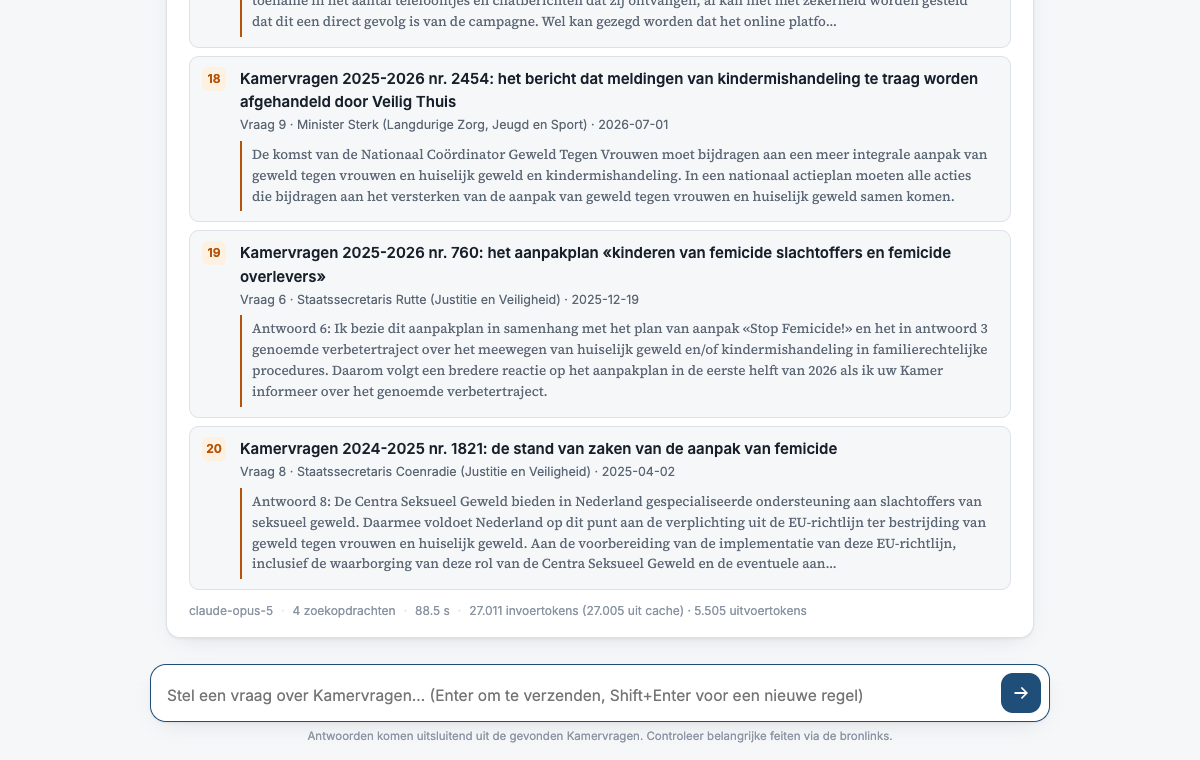
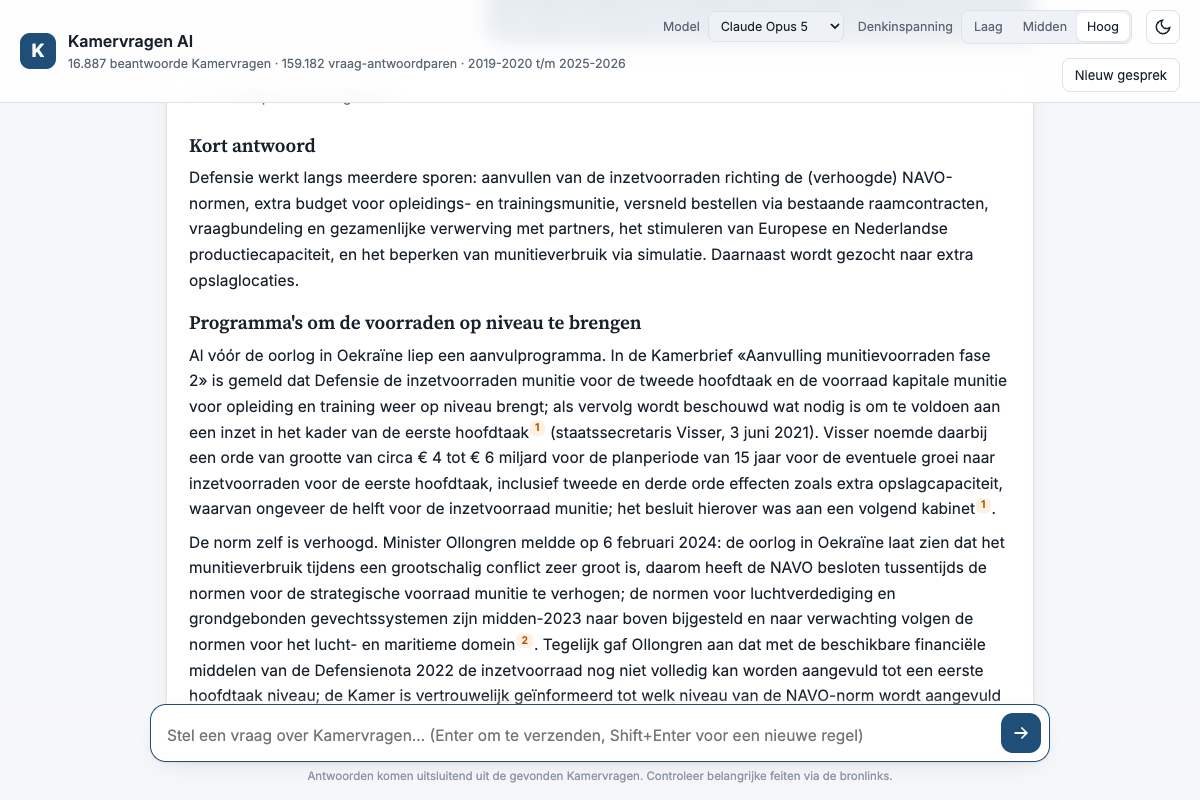
Better answer screenshot; eager image loading

diff --git a/index.html b/index.html
@@ -133,8 +133,8 @@
 <section class="shots">
   <div class="wrap">
     <div class="shot-grid">
-      <figure><img src="assets/screenshot-answer.png" alt="Antwoord met genummerde citaten en bronnenlijst" loading="lazy"><figcaption>Citaten als genummerde markers; klik en je springt naar de bron met het letterlijke citaat.</figcaption></figure>
-      <figure><img src="assets/screenshot-dark.png" alt="Startscherm met voorbeeldvragen in donker thema" loading="lazy"><figcaption>Startscherm met voorbeeldvragen, model- en inspanningskeuze, licht en donker thema.</figcaption></figure>
+      <figure><img src="assets/screenshot-answer.png" alt="Antwoord met genummerde citaten en bronnenlijst"><figcaption>Citaten als genummerde markers; klik en je springt naar de bron met het letterlijke citaat.</figcaption></figure>
+      <figure><img src="assets/screenshot-dark.png" alt="Startscherm met voorbeeldvragen in donker thema"><figcaption>Startscherm met voorbeeldvragen, model- en inspanningskeuze, licht en donker thema.</figcaption></figure>
     </div>
   </div>
 </section>
